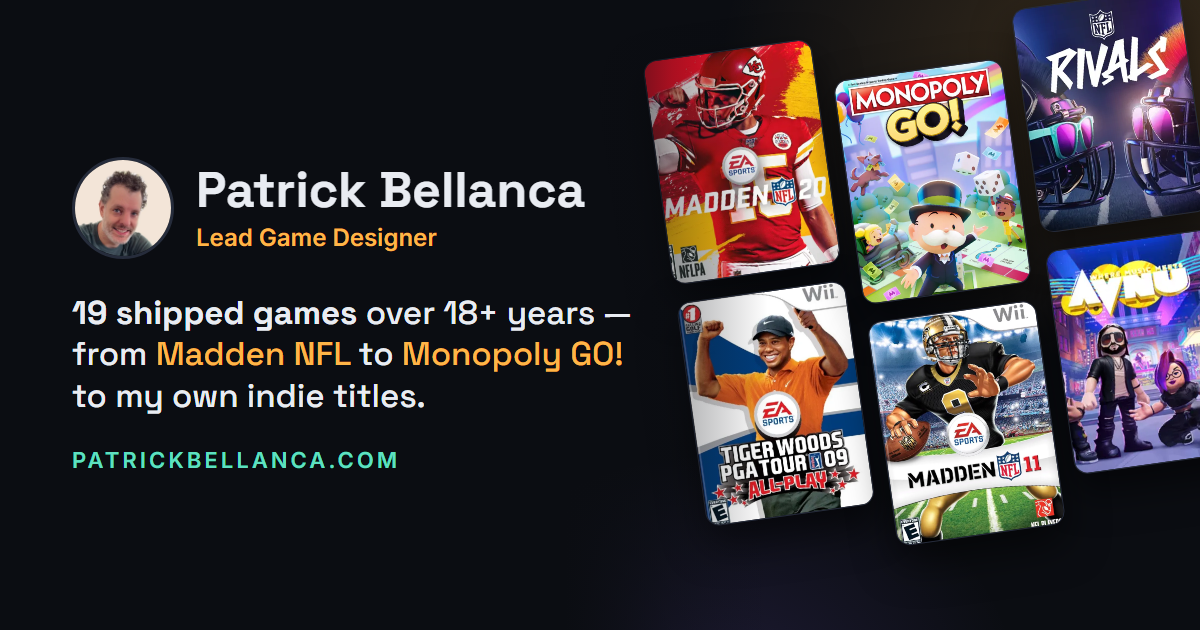
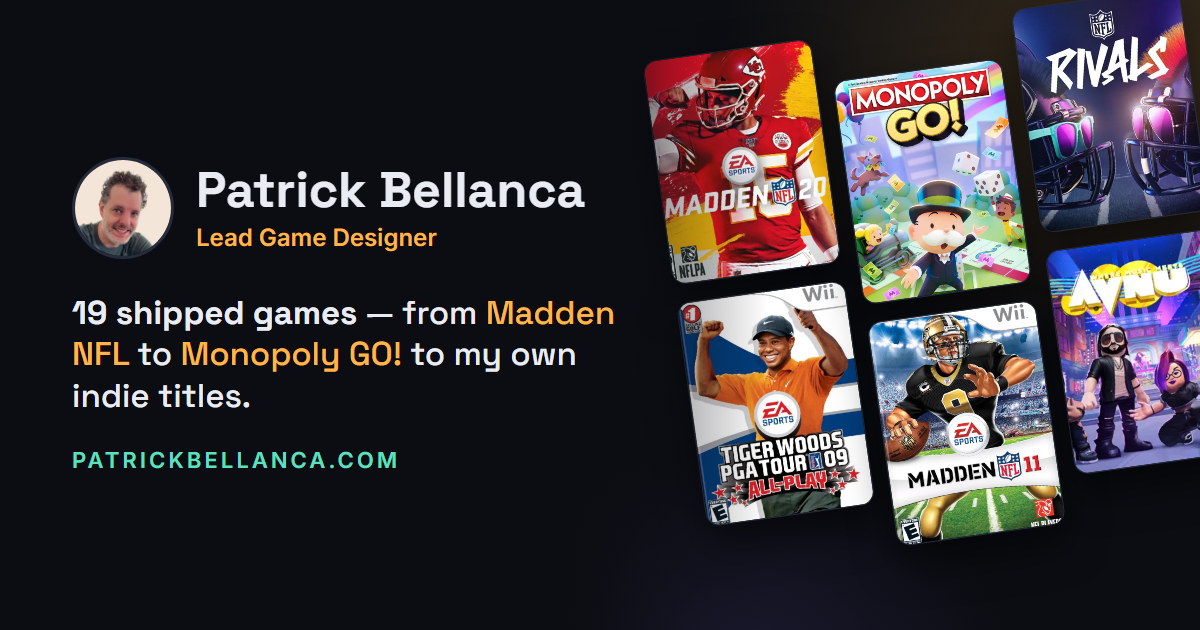
Shorten home headline to "19 shipped games"

Changed region(s): [[0.0617, 0.4524, 0.5242, 0.6635]]

diff --git a/tools/og-card.html b/tools/og-card.html
@@ -48,7 +48,7 @@
       <img src="../docs/img/2026/11/portrait-2026.webp" alt="">
       <div><div class="name">Patrick Bellanca</div><div class="role">Lead Game Designer</div></div>
     </div>
-    <p class="tag"><strong>19 shipped games</strong> over 18+ years — from <em>Madden NFL</em> to <em>Monopoly GO!</em> to my own indie titles.</p>
+    <p class="tag"><strong>19 shipped games</strong> — from <em>Madden NFL</em> to <em>Monopoly GO!</em> to my own indie titles.</p>
     <div class="url">patrickbellanca.com</div>
   </div>
 </body>

diff --git a/docs/index.html b/docs/index.html
@@ -44,7 +44,7 @@
 <main id="main">
 <section class="wrap intro">
   <p class="eyebrow">Lead Game Designer · Boulder, CO</p>
-  <h1><strong>19 shipped games</strong> over 18+ years — from <em>Madden NFL</em> to <em>Monopoly GO!</em> to my own indie titles.</h1>
+  <h1><strong>19 shipped games</strong> — from <em>Madden NFL</em> to <em>Monopoly GO!</em> to my own indie titles.</h1>
 </section>
 <section class="wrap">
   <div class="section-head"><h2>Shipped Games</h2><p>Tap a game to read the breakdown.</p></div>
